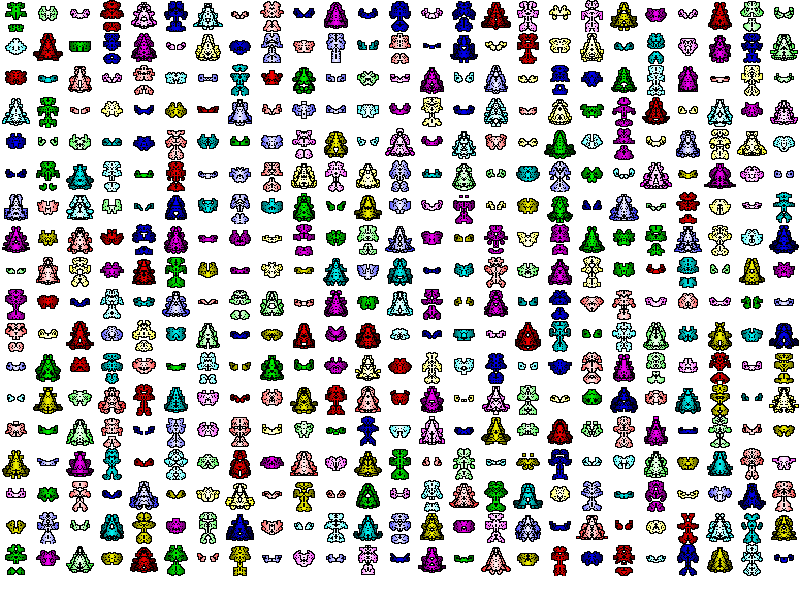
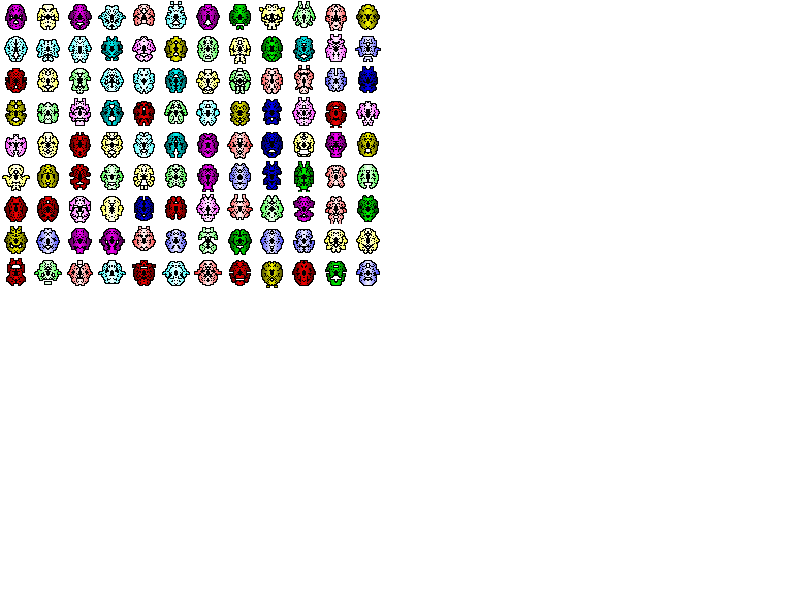
fully decoupled spaceship skinning from colouring

diff --git a/proc_pixels.py b/proc_pixels.py
@@ -8,7 +8,7 @@ Spaceship generator
 
 Part of the Automatic Pixel Art Generator or APAG
 
-Version 0.0.2 as of 18 January 2012
+Version 0.0.3 as of 19 January 2012
 
 """
 
@@ -16,6 +16,7 @@ class SpaceShipGenerator():
 
 	def __init__(self):	
 		pass
+
 	
 	def proc_gen(self, key_surface):
 		"""
@@ -28,28 +29,35 @@ class SpaceShipGenerator():
 		output_surface = pygame.Surface((width, height))
 		key_array = pygame.PixelArray(key_surface)
 		output_array = pygame.PixelArray(output_surface)
+		
+		WHITE = key_surface.map_rgb ((255, 255, 255))
+		RED = key_surface.map_rgb ((255, 0, 0))
+		GREEN = key_surface.map_rgb ((0, 255, 0))
+		BLUE = key_surface.map_rgb ((0, 0, 255))
+		BLACK = key_surface.map_rgb ((0, 0, 0))
+		
 		for row in range(0, height):
 			for col in range(0, width):
-				pixel = (0, 0, 0)
+				pixel = BLACK
 				# White
-				if key_array[col][row] == key_surface.map_rgb ((255, 255, 255)):
+				if key_array[col][row] == WHITE:
 					#100%
-					pixel = (255, 255, 255)
+					pixel = WHITE
 				# Green
-				elif key_array[col][row] == key_surface.map_rgb ((0, 255, 0)):
+				elif key_array[col][row] == GREEN:
 					r = randint(0, 3) # 75%
 					if r in (0, 1, 2) :
-						pixel = (0, 255, 0)
+						pixel = GREEN
 				# Red
-				elif key_array[col][row] == key_surface.map_rgb ((255, 0, 0)):
+				elif key_array[col][row] == RED:
 					r = randint(0, 3) # 50%
 					if r in (0, 1) :
-						pixel = (255, 0, 0)
+						pixel = RED
 				# Blue
-				elif key_array[col][row] == key_surface.map_rgb ((0, 0, 255)):
+				elif key_array[col][row] == BLUE:
 					r = randint(0, 3) # 25%
 					if r == 0 :
-						pixel = (0, 0, 255)
+						pixel = BLUE
 				output_array[col][row] = pixel
 	
 		# copy pixel array to surface and delete pixel arrays
@@ -71,7 +79,7 @@ class SpaceShipGenerator():
 	
 		count = 0
 		if row > 1 and col > 1:
-			if input_array[col-1][row-1] == BLACK: count += 1
+			if input_array[col-1][row-1] == BLACK: count += 1 
 		else: count += 1
 		if row > 1:
 			if input_array[col][row-1] == BLACK: count += 1
@@ -146,7 +154,7 @@ class SpaceShipGenerator():
 			# Remove coloured pixels without enough surrounding coloured pixels
 			for row in range(0, height):
 				for col in range(0, width):
-					if input_array[col][row] is not BLACK:
+					if input_array[col][row] != BLACK:
 						count = self.get_count_of_surrounding_black_pixels(input_array, row, col, width, height, BLACK)
 						
 						if count > 5:
@@ -210,6 +218,7 @@ class SpaceShipGenerator():
 	
 		BLACK = input_surface.map_rgb ((0, 0, 0))
 		WHITE = input_surface.map_rgb ((255, 255, 255))	
+		PINK = input_surface.map_rgb ((255, 0, 255))
 		# Add an outer skin and convert remaining black pixels to white
 	
 		for row in range(0, height):
@@ -218,12 +227,11 @@ class SpaceShipGenerator():
 					count = self.get_count_of_surrounding_non_black_pixels(input_array, row, col, width, height, BLACK)
 					
 					if count > 0:
-						output_array[col][row] = pygame.color.Color('black')
+						output_array[col][row] = PINK
 					else:
-						output_array[col][row] = pygame.color.Color('white')
+						output_array[col][row] = input_array[col][row]
+						
 				
-				elif input_array[col][row] == WHITE:
-					output_array[col][row] = pygame.color.Color('black')	
 				else:
 					output_array[col][row] = input_array[col][row] 
 		# copy pixel array to surface and delete pixel arrays
@@ -250,6 +258,7 @@ class SpaceShipGenerator():
 		RED = input_surface.map_rgb ((255, 0, 0))
 		BLUE = input_surface.map_rgb ((0, 0, 255))
 		WHITE = input_surface.map_rgb ((255, 255, 255))
+		PINK = input_surface.map_rgb ((255, 0, 255))
 		
 		colour1 = None
 		
@@ -294,6 +303,11 @@ class SpaceShipGenerator():
 					output_array[col][row] = BLACK	
 				elif input_array[col][row] == BLACK:
 					output_array[col][row] = WHITE	
+				elif input_array[col][row] == PINK:
+					output_array[col][row] = BLACK	
+				
+				else:
+					output_array[col][row] = input_array[col][row]
 		
 		
 		
